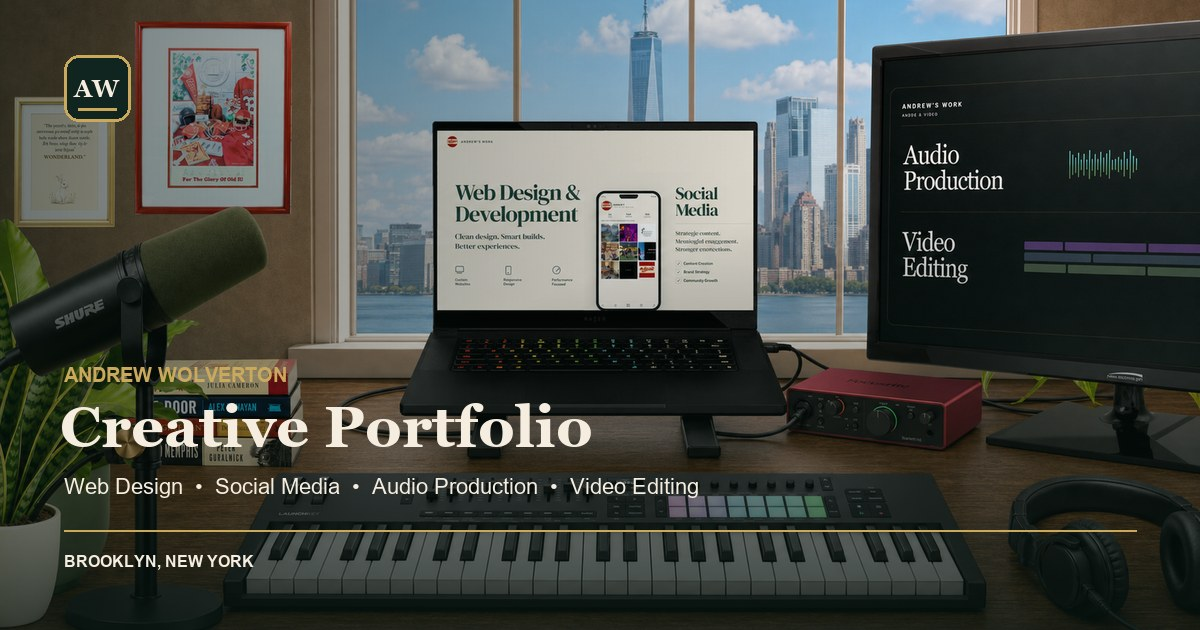
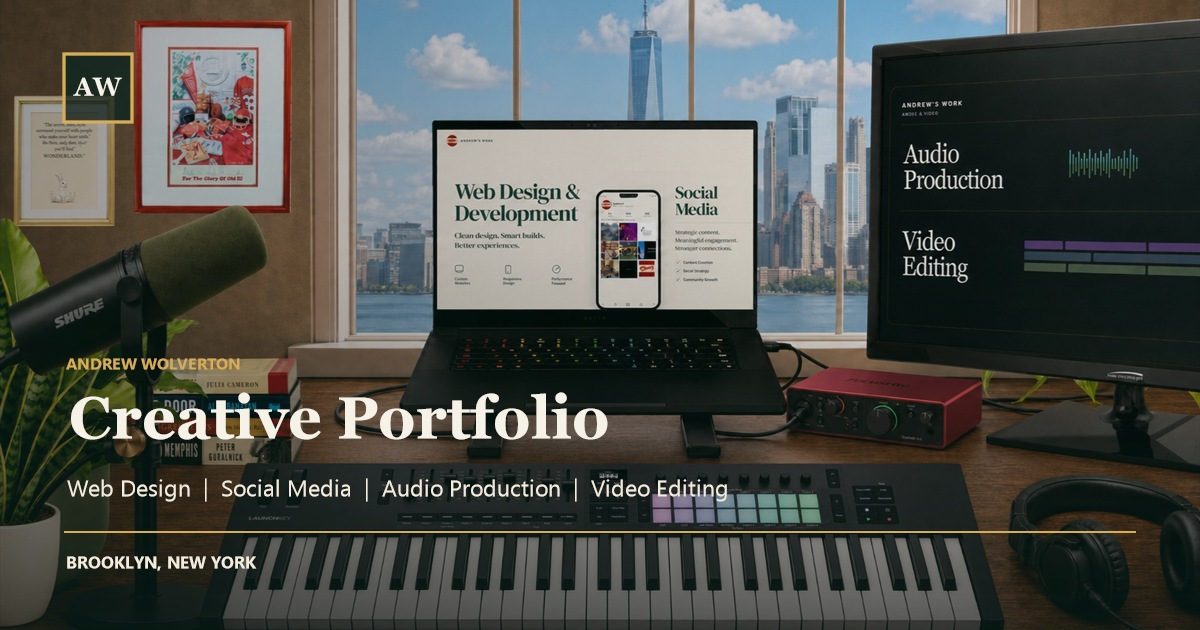
Update social share image

diff --git a/index.html b/index.html
@@ -10,14 +10,14 @@
   <meta content="Andrew Wolverton | Creative Portfolio" property="og:title">
   <meta content="Web design, social media, audio production, and video editing work by Andrew Wolverton." property="og:description">
   <meta content="https://mrhoosier23.github.io/Andrew-Wolverton-Portfolio/" property="og:url">
-  <meta content="https://mrhoosier23.github.io/Andrew-Wolverton-Portfolio/assets/social-share.jpg" property="og:image">
+  <meta content="https://mrhoosier23.github.io/Andrew-Wolverton-Portfolio/assets/social-share.jpg?v=20260722" property="og:image">
   <meta content="1200" property="og:image:width">
   <meta content="630" property="og:image:height">
   <meta content="Andrew Wolverton's creative desk portfolio featuring web, social, audio, and video work." property="og:image:alt">
   <meta content="summary_large_image" name="twitter:card">
   <meta content="Andrew Wolverton | Creative Portfolio" name="twitter:title">
   <meta content="Web design, social media, audio production, and video editing work by Andrew Wolverton." name="twitter:description">
-  <meta content="https://mrhoosier23.github.io/Andrew-Wolverton-Portfolio/assets/social-share.jpg" name="twitter:image">
+  <meta content="https://mrhoosier23.github.io/Andrew-Wolverton-Portfolio/assets/social-share.jpg?v=20260722" name="twitter:image">
   <meta content="Andrew Wolverton's creative desk portfolio featuring web, social, audio, and video work." name="twitter:image:alt">
   <link href="assets/favicon.svg" rel="icon" type="image/svg+xml">
   <link href="assets/favicon-32.png" rel="icon" sizes="32x32" type="image/png">
